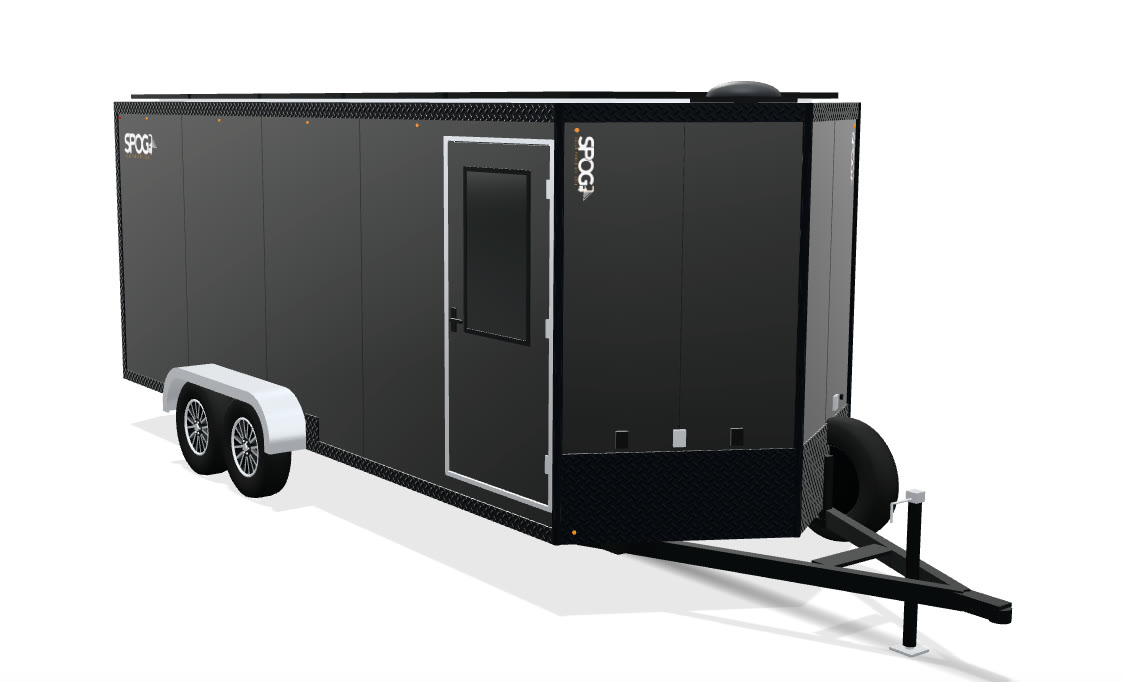
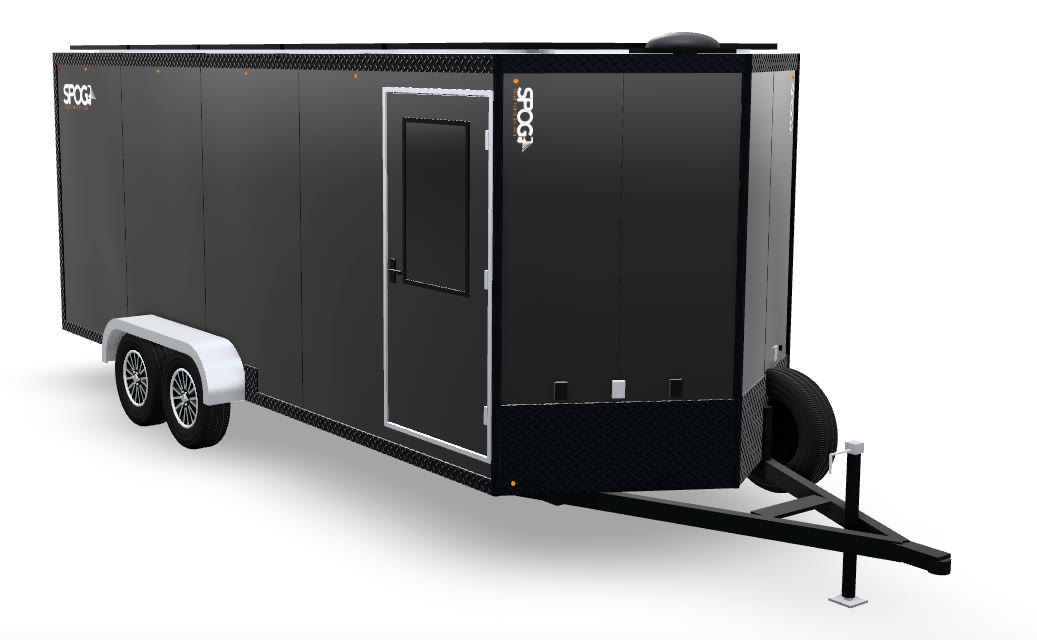
Configurator realism pass: contact shadow, ambient occlusion, paint and tire detail
- Soft contact shadow drawn each frame from what sits near the ground
- Ambient occlusion in the creases on screens 900px and wider
- Sharper clearcoat and a faint half-float ripple on the paint
- Tire tread and a smoother tire profile, fasteners along the rails
- Transparent canvas so the page's white stays the backdrop
- New capture of the model for the /configure Cargo card

Changed region(s): [[0.0309, 0.0312, 0.9257, 1.0]]

diff --git a/src/scripts/configurator/scene.ts b/src/scripts/configurator/scene.ts
@@ -1,10 +1,22 @@
 /**
- * The 3D stage for the configurator: a white studio like Tesla's. Pure white background,
- * a shadow-only floor, soft studio reflections, camera presets you can drag away from,
- * and an interior view that puts the camera inside the trailer.
+ * The 3D stage for the configurator: a white studio like Tesla's, with camera presets you can
+ * drag away from and an interior view that puts the camera inside the trailer.
+ *
+ * What makes it read as a photo and not a diagram (the realism pass, 2026-11-18):
+ *   - The canvas is see-through, so the page's own white is the backdrop and stays pure white.
+ *   - A soft contact shadow is drawn fresh each frame from what actually sits near the ground,
+ *     so it's darkest under the tires and follows open doors.
+ *   - Ambient occlusion darkens the creases where parts meet (wider screens only, for speed).
+ *   - The studio the paint reflects has a horizon and tall light panels (studioEnvironment).
  */
 import * as THREE from 'three';
 import { OrbitControls } from 'three/addons/controls/OrbitControls.js';
+import { EffectComposer } from 'three/addons/postprocessing/EffectComposer.js';
+import { GTAOPass } from 'three/addons/postprocessing/GTAOPass.js';
+import { OutputPass } from 'three/addons/postprocessing/OutputPass.js';
+import { RenderPass } from 'three/addons/postprocessing/RenderPass.js';
+import { HorizontalBlurShader } from 'three/addons/shaders/HorizontalBlurShader.js';
+import { VerticalBlurShader } from 'three/addons/shaders/VerticalBlurShader.js';
 import { FLOOR, H, W, axleCenter, NOSE } from './dims';
 import { interiorView } from './trailer';
 
@@ -74,9 +86,9 @@ const ease = (t: number) => (t < 0.5 ? 4 * t * t * t : 1 - Math.pow(-2 * t + 2, 
 export function createStage(container: HTMLElement) {
   const reduceMotion = window.matchMedia('(prefers-reduced-motion: reduce)').matches;
 
-  const renderer = new THREE.WebGLRenderer({ antialias: true, powerPreference: 'high-performance' });
+  const renderer = new THREE.WebGLRenderer({ antialias: true, alpha: true, powerPreference: 'high-performance' });
   renderer.setPixelRatio(Math.min(window.devicePixelRatio, 2));
-  renderer.setClearColor('#ffffff', 1);
+  renderer.setClearColor(0x000000, 0);
   renderer.toneMapping = THREE.NeutralToneMapping;
   renderer.toneMappingExposure = 1.05;
   renderer.outputColorSpace = THREE.SRGBColorSpace;
@@ -91,34 +103,68 @@ export function createStage(container: HTMLElement) {
   scene.environment = studioEnvironment(renderer);
   scene.environmentIntensity = 1;
 
-  // shadow-only floor, so the background stays pure white
-  const floor = new THREE.Mesh(new THREE.PlaneGeometry(400, 400), new THREE.ShadowMaterial({ opacity: 0.09 }));
-  floor.rotation.x = -Math.PI / 2;
-  floor.receiveShadow = true;
-  scene.add(floor);
-
-  // soft contact shadow directly under the trailer
-  const blobCanvas = document.createElement('canvas');
-  blobCanvas.width = blobCanvas.height = 256;
-  const bc = blobCanvas.getContext('2d')!;
-  const bg = bc.createRadialGradient(128, 128, 8, 128, 128, 128);
-  bg.addColorStop(0, 'rgba(0,0,0,.55)');
-  bg.addColorStop(0.45, 'rgba(0,0,0,.26)');
-  bg.addColorStop(1, 'rgba(0,0,0,0)');
-  bc.fillStyle = bg;
-  bc.fillRect(0, 0, 256, 256);
-  const blob = new THREE.Mesh(
-    new THREE.PlaneGeometry(1, 1),
-    new THREE.MeshBasicMaterial({ map: new THREE.CanvasTexture(blobCanvas), transparent: true, depthWrite: false, toneMapped: false }),
-  );
-  blob.rotation.x = -Math.PI / 2;
-  blob.position.y = 0.02;
-  scene.add(blob);
+  // ---------------------------------------------------------------- contact shadow
+  // A camera on the ground looks straight up and records how close everything is. Blurred, that
+  // becomes the shadow: dark where the tires touch, lighter under the raised body.
+  const CS = { w: 40, d: 18, h: 3.4, feet: 1.5, opacity: 0.62 };
+  const shadowGroup = new THREE.Group();
+  shadowGroup.position.set(1.5, 0.012, 0);
+  scene.add(shadowGroup);
+  const shadowRT = new THREE.WebGLRenderTarget(1024, 512);
+  const blurRT = new THREE.WebGLRenderTarget(1024, 512);
+  shadowRT.texture.generateMipmaps = blurRT.texture.generateMipmaps = false;
+  const shadowGeo = new THREE.PlaneGeometry(CS.w, CS.d).rotateX(Math.PI / 2);
+  const shadowPlane = new THREE.Mesh(shadowGeo, new THREE.MeshBasicMaterial({ map: shadowRT.texture, opacity: CS.opacity, transparent: true, depthWrite: false }));
+  shadowPlane.scale.y = -1; // the target is upside down seen from above
+  shadowPlane.renderOrder = -1;
+  const blurPlane = new THREE.Mesh(shadowGeo);
+  blurPlane.visible = false;
+  const shadowCam = new THREE.OrthographicCamera(-CS.w / 2, CS.w / 2, CS.d / 2, -CS.d / 2, 0, CS.h);
+  shadowCam.rotation.x = Math.PI / 2;
+  shadowGroup.add(shadowPlane, blurPlane, shadowCam);
+  const nearness = new THREE.MeshDepthMaterial();
+  nearness.depthTest = false;
+  nearness.depthWrite = false;
+  nearness.onBeforeCompile = (shader) => {
+    shader.fragmentShader = shader.fragmentShader.replace(
+      'gl_FragColor = vec4( vec3( 1.0 - fragCoordZ ), opacity );',
+      'gl_FragColor = vec4( vec3( 0.0 ), 1.0 - fragCoordZ );',
+    );
+  };
+  const hBlur = new THREE.ShaderMaterial(HorizontalBlurShader);
+  const vBlur = new THREE.ShaderMaterial(VerticalBlurShader);
+  hBlur.depthTest = vBlur.depthTest = false;
+  function blurShadow(feet: number) {
+    blurPlane.visible = true;
+    blurPlane.material = hBlur;
+    hBlur.uniforms.tDiffuse.value = shadowRT.texture;
+    hBlur.uniforms.h.value = feet / 4 / CS.w;
+    renderer.setRenderTarget(blurRT);
+    renderer.render(blurPlane, shadowCam);
+    blurPlane.material = vBlur;
+    vBlur.uniforms.tDiffuse.value = blurRT.texture;
+    vBlur.uniforms.v.value = feet / 4 / CS.d;
+    renderer.setRenderTarget(shadowRT);
+    renderer.render(blurPlane, shadowCam);
+    blurPlane.visible = false;
+  }
+  function drawContactShadow() {
+    shadowPlane.visible = false;
+    scene.overrideMaterial = nearness;
+    renderer.setRenderTarget(shadowRT);
+    renderer.clear();
+    renderer.render(scene, shadowCam);
+    scene.overrideMaterial = null;
+    blurShadow(CS.feet);
+    blurShadow(CS.feet * 0.4);
+    renderer.setRenderTarget(null);
+    shadowPlane.visible = true;
+  }
 
   scene.add(new THREE.HemisphereLight('#ffffff', '#e9e7e2', 0.9));
   const key = new THREE.DirectionalLight('#ffffff', 2.3);
   key.position.set(3, 50, 7);
-  key.castShadow = true;
+  key.castShadow = true; // parts shade each other. The ground shadow is the contact shadow above.
   key.shadow.mapSize.set(2048, 2048);
   const sc = key.shadow.camera;
   sc.left = -24; sc.right = 24; sc.top = 24; sc.bottom = -24; sc.near = 1; sc.far = 120;
@@ -141,6 +187,25 @@ export function createStage(container: HTMLElement) {
   // On a phone, a sideways drag turns the trailer and an up or down swipe still scrolls the page.
   renderer.domElement.style.touchAction = 'pan-y';
 
+  // ---------------------------------------------------------------- ambient occlusion
+  // Darkens the creases where parts meet: under the fenders, around trim, behind the wheels.
+  // It costs a second pass over the scene, so phones skip it.
+  let composer: EffectComposer | null = null;
+  if (renderer.capabilities.isWebGL2 && !window.matchMedia('(max-width: 899px)').matches) {
+    try {
+      composer = new EffectComposer(renderer, new THREE.WebGLRenderTarget(1, 1, { type: THREE.HalfFloatType, samples: 4 }));
+      composer.addPass(new RenderPass(scene, camera));
+      const ao = new GTAOPass(scene, camera, 1, 1);
+      ao.updateGtaoMaterial({ radius: 1.5, distanceExponent: 1.5, thickness: 1.2, scale: 1.15, samples: 16 });
+      ao.updatePdMaterial({ lumaPhi: 10, depthPhi: 2, normalPhi: 3, radius: 4, radiusExponent: 1, rings: 2, samples: 16 });
+      ao.blendIntensity = 0.9;
+      composer.addPass(ao);
+      composer.addPass(new OutputPass());
+    } catch {
+      composer = null; // an older GPU: draw the plain picture
+    }
+  }
+
   // ---------------------------------------------------------------- sizing
   let trailerLength = 20;
   let tall = false; // a mast stands well above the roof, so the camera backs off and aims higher
@@ -148,6 +213,7 @@ export function createStage(container: HTMLElement) {
     const w = container.clientWidth || 1;
     const h = container.clientHeight || 1;
     renderer.setSize(w, h, false);
+    composer?.setSize(w, h);
     camera.aspect = w / h;
     camera.updateProjectionMatrix();
   };
@@ -223,8 +289,6 @@ export function createStage(container: HTMLElement) {
 
   function setLength(L: number) {
     trailerLength = L;
-    blob.scale.set(L + 12, 1, 15);
-    blob.position.x = 1.4;
     if (!userMoved) setView(currentView, true);
   }
 
@@ -258,7 +322,9 @@ export function createStage(container: HTMLElement) {
     }
     frameHooks.forEach((f) => f(dt));
     controls.update();
-    renderer.render(scene, camera);
+    drawContactShadow();
+    if (composer) composer.render();
+    else renderer.render(scene, camera);
     requestAnimationFrame(frame);
   }
 

diff --git a/src/scripts/configurator/trailer.ts b/src/scripts/configurator/trailer.ts
@@ -113,6 +113,48 @@ function coinTexture() {
   }, false);
 }
 
+/**
+ * Sheet aluminum is never dead flat. This is the faint, slow ripple that bends reflections across
+ * each wall, as in the photos. It's a sum of whole-number waves, so it tiles without a seam, and
+ * it's stored at half-float precision because an 8-bit height map this gentle shows as stripes.
+ */
+function rippleTexture() {
+  const size = 128;
+  const data = new Uint16Array(size * size);
+  const waves = [[1, 0, 0.9, 0.3], [0, 1, 0.5, 1.1], [1, 1, 0.45, 2.0], [2, 1, 0.4, 0.7], [1, 2, 0.3, 4.1], [3, 0, 0.28, 5.2], [2, 3, 0.2, 3.3], [4, 1, 0.14, 1.7]];
+  for (let y = 0; y < size; y++) for (let x = 0; x < size; x++) {
+    let h = 0;
+    for (const [kx, ky, amp, phase] of waves) h += amp * Math.sin((Math.PI * 2 * (kx * x + ky * y)) / size + phase);
+    data[y * size + x] = THREE.DataUtils.toHalfFloat(0.5 + h * 0.1);
+  }
+  const tex = new THREE.DataTexture(data, size, size, THREE.RedFormat, THREE.HalfFloatType);
+  tex.magFilter = tex.minFilter = THREE.LinearFilter;
+  tex.needsUpdate = true;
+  return tex;
+}
+
+/** Tire tread and sidewall rings. u runs around the tire, v across it from bead to bead. */
+function tireTexture() {
+  return canvasTexture(128, 256, (c) => {
+    c.fillStyle = '#9a9a9a';
+    c.fillRect(0, 0, 128, 256);
+    // sidewall rings
+    c.fillStyle = '#6f6f6f';
+    for (const v of [34, 52, 204, 222]) c.fillRect(0, v, 128, 3);
+    // tread: raised blocks cut by three grooves around and angled sipes across
+    c.fillStyle = '#d2d2d2';
+    c.fillRect(0, 92, 128, 72);
+    c.fillStyle = '#1e1e1e';
+    for (const v of [108, 126, 144]) c.fillRect(0, v, 128, 5);
+    c.strokeStyle = '#1e1e1e';
+    c.lineWidth = 5;
+    for (let x = -32; x < 160; x += 32) {
+      c.beginPath(); c.moveTo(x, 92); c.lineTo(x + 18, 110); c.stroke();
+      c.beginPath(); c.moveTo(x + 18, 146); c.lineTo(x, 164); c.stroke();
+    }
+  }, false);
+}
+
 /** The slots of a tie-down track, as a bump pattern. */
 function slotTexture() {
   return canvasTexture(64, 48, (c) => {
@@ -205,6 +247,10 @@ export function createMaterials() {
   const plate = tile(diamondPlateTexture(), 0.34);
   const plateFloor = tile(diamondPlateTexture(), 0.34);
   const coin = tile(coinTexture(), 0.16);
+  const ripple = tile(rippleTexture(), 9, 7);
+  const tread = tireTexture();
+  tread.wrapS = tread.wrapT = THREE.RepeatWrapping;
+  tread.repeat.set(44, 1);
   const planks = tile(woodTexture([166, 126, 76], 6), 4);
   const ply = tile(woodTexture([203, 168, 112], 0), 4);
   const loader = new THREE.TextureLoader();
@@ -219,10 +265,11 @@ export function createMaterials() {
   return {
     textures: { plate, plateFloor, coin, planks, ply, logoWhite: logo('/images/spog-logo-white.png'), logoDark: logo('/images/spog-logo-dark.png') },
     // Satin aluminum skin. A little clearcoat gives the long soft highlights of the studio look.
-    paint: new THREE.MeshPhysicalMaterial({ color: '#141416', roughness: 0.34, metalness: 0.5, clearcoat: 0.6, clearcoatRoughness: 0.3 }),
+    paint: new THREE.MeshPhysicalMaterial({ color: '#141416', roughness: 0.34, metalness: 0.5, clearcoat: 0.6, clearcoatRoughness: 0.3, bumpMap: ripple, bumpScale: 3 }),
     seam: new THREE.MeshStandardMaterial({ color: '#050506', roughness: 0.6, metalness: 0.3, transparent: true, opacity: 0.55 }),
     trim: new THREE.MeshStandardMaterial({ color: '#1a1b1e', roughness: 0.46, metalness: 0.7, bumpMap: plate, bumpScale: 1.6 }),
     edge: new THREE.MeshStandardMaterial({ color: '#16171a', roughness: 0.5, metalness: 0.6 }),
+    rivet: new THREE.MeshStandardMaterial({ color: '#2a2b2f', roughness: 0.35, metalness: 0.9 }),
     black: new THREE.MeshStandardMaterial({ color: '#111214', roughness: 0.55, metalness: 0.4 }),
     chassis: new THREE.MeshStandardMaterial({ color: '#0d0e10', roughness: 0.7, metalness: 0.4 }),
     aluminum: new THREE.MeshStandardMaterial({ color: '#c9ccd1', roughness: 0.32, metalness: 0.92 }),
@@ -230,7 +277,7 @@ export function createMaterials() {
     roof: new THREE.MeshStandardMaterial({ color: '#d4d7db', roughness: 0.42, metalness: 0.75 }),
     glass: new THREE.MeshPhysicalMaterial({ color: '#07090c', roughness: 0.06, metalness: 0.2, clearcoat: 1, clearcoatRoughness: 0.04, envMapIntensity: 1.6 }),
     daylight: new THREE.MeshBasicMaterial({ color: '#f2f6fa' }),
-    rubber: new THREE.MeshStandardMaterial({ color: '#131314', roughness: 0.9, metalness: 0, side: THREE.DoubleSide }),
+    rubber: new THREE.MeshStandardMaterial({ color: '#151516', roughness: 0.86, metalness: 0, side: THREE.DoubleSide, bumpMap: tread, bumpScale: 5 }),
     rimBarrel: new THREE.MeshStandardMaterial({ color: '#0e0f11', roughness: 0.35, metalness: 0.85, side: THREE.DoubleSide }),
     spokeSide: new THREE.MeshStandardMaterial({ color: '#0e0f11', roughness: 0.3, metalness: 0.85 }),
     spokeFace: new THREE.MeshStandardMaterial({ color: '#d7dade', roughness: 0.2, metalness: 1 }),
@@ -266,9 +313,10 @@ export type Materials = ReturnType<typeof createMaterials>;
 export function applyFinish(m: Materials, cfg: TrailerConfig) {
   m.paint.color.set(cfg.paint);
   // Matte Black drops the clearcoat and scatters its reflections. Every other color is satin.
-  m.paint.roughness = cfg.matte ? 0.8 : 0.34;
+  m.paint.roughness = cfg.matte ? 0.8 : 0.4;
   m.paint.metalness = cfg.matte ? 0.1 : 0.32;
-  m.paint.clearcoat = cfg.matte ? 0 : 0.6;
+  m.paint.clearcoat = cfg.matte ? 0 : 0.8;
+  m.paint.clearcoatRoughness = 0.13;
   // Satin black shows seams as faint lines. On light paint they read as darker joints.
   m.seam.color.set(cfg.paintDark ? '#050506' : '#2a2b2e');
   m.seam.opacity = cfg.paintDark ? 0.55 : 0.28;
@@ -343,9 +391,10 @@ const TIRE_R = 1.1;
 /** A wheel with its outer face toward +z. Black barrel, eight split spokes with machined faces. */
 function wheel(m: Materials) {
   const g = new THREE.Group();
-  const prof = [[0.64, -0.25], [0.7, -0.3], [0.86, -0.315], [1.0, -0.31], [1.07, -0.26], [1.1, -0.14], [1.1, 0.14], [1.07, 0.26], [1.0, 0.31], [0.86, 0.315], [0.7, 0.3], [0.64, 0.25]]
-    .map(([r, a]) => new THREE.Vector2(r, a));
-  const tire = new THREE.Mesh(new THREE.LatheGeometry(prof, 56), m.rubber);
+  // A smooth cross-section: bead, bulged sidewall, rounded shoulder, flat tread, and back.
+  const half: [number, number][] = [[0.64, 0.25], [0.68, 0.285], [0.76, 0.31], [0.86, 0.322], [0.95, 0.318], [1.02, 0.3], [1.065, 0.265], [1.09, 0.215], [1.1, 0.15], [1.1, 0.05]];
+  const prof = [...half.map(([r, a]) => [r, -a]), ...half.map(([r, a]) => [r, a]).reverse()].map(([r, a]) => new THREE.Vector2(r, a));
+  const tire = new THREE.Mesh(new THREE.LatheGeometry(prof, 72), m.rubber);
   tire.rotation.x = Math.PI / 2;
   tire.castShadow = true;
   g.add(tire);
@@ -576,6 +625,18 @@ export function buildTrailer(cfg: TrailerConfig, m: Materials): TrailerParts {
       if (sz < 0) brand.rotation.y = Math.PI;
       g.add(brand);
     }
+  }
+
+  // small fasteners along the top and bottom rails, as one instanced mesh
+  {
+    const pts: [number, number, number][] = [];
+    for (const sz of [1, -1]) for (let x = xr + 0.5; x < xf - 0.2; x += 0.72) {
+      pts.push([x, ROOF - 0.07, sz * (out + 0.02)], [x, FLOOR + 0.2, sz * (out + 0.02)]);
+    }
+    const rivets = new THREE.InstancedMesh(new THREE.SphereGeometry(0.022, 8, 6), m.rivet, pts.length);
+    const mat4 = new THREE.Matrix4();
+    pts.forEach(([x, y, z], i) => rivets.setMatrixAt(i, mat4.makeTranslation(x, y, z)));
+    g.add(rivets);
   }
 
   // ------------------------------------------------------------ street side: window and hatch

diff --git a/CLAUDE.md b/CLAUDE.md
@@ -181,6 +181,13 @@ Each product page is written for its own buyer. The single shared `[product].ast
   - Rear: barn doors with twin chrome lock bars and four oval tail lights. Roof: five solar panels and a low vent.
   - Black machined wheels under aluminum fenders, with a matching spare on the tongue.
   - Inside: white walls and ceiling with a black band where they meet, round ceiling lights, a black floor, a white partition with a closet door closing off the nose, and battery units (5 kWh each) on low white platforms along both walls.
+- **Realism pass (2026-11-18, Nate asked for it to look more like Tesla's):**
+  - A soft contact shadow is redrawn every frame from what sits near the ground.
+  - Ambient occlusion shades the creases (screens 900px and wider only).
+  - The paint has a sharper clearcoat and a faint ripple so reflections bend like real sheet aluminum.
+  - The tires have tread, and the rails have fasteners.
+  - The canvas is see-through, so the page's white is the backdrop.
+  - It's still simple shapes drawn live. Tesla-level pictures need the factory's CAD files or a 3D artist's model.
 - Options are modeled from SPOG's own builds where photos exist: the security mast with dome cameras and the Starlink dish on top (Workstation photos), the black-topped white desk and black E-track (Cargo interior photos). The rest are simple stand-ins.
 - Furniture is packed along the walls in the order it's picked up in `trailer.ts`. When a piece doesn't fit (mostly on the 10 ft), the preview leaves it out and a notice says so. The real layout is worked out with the buyer.
 - "Open doors" swings the rear and side doors, and the Interior view puts the camera inside.
